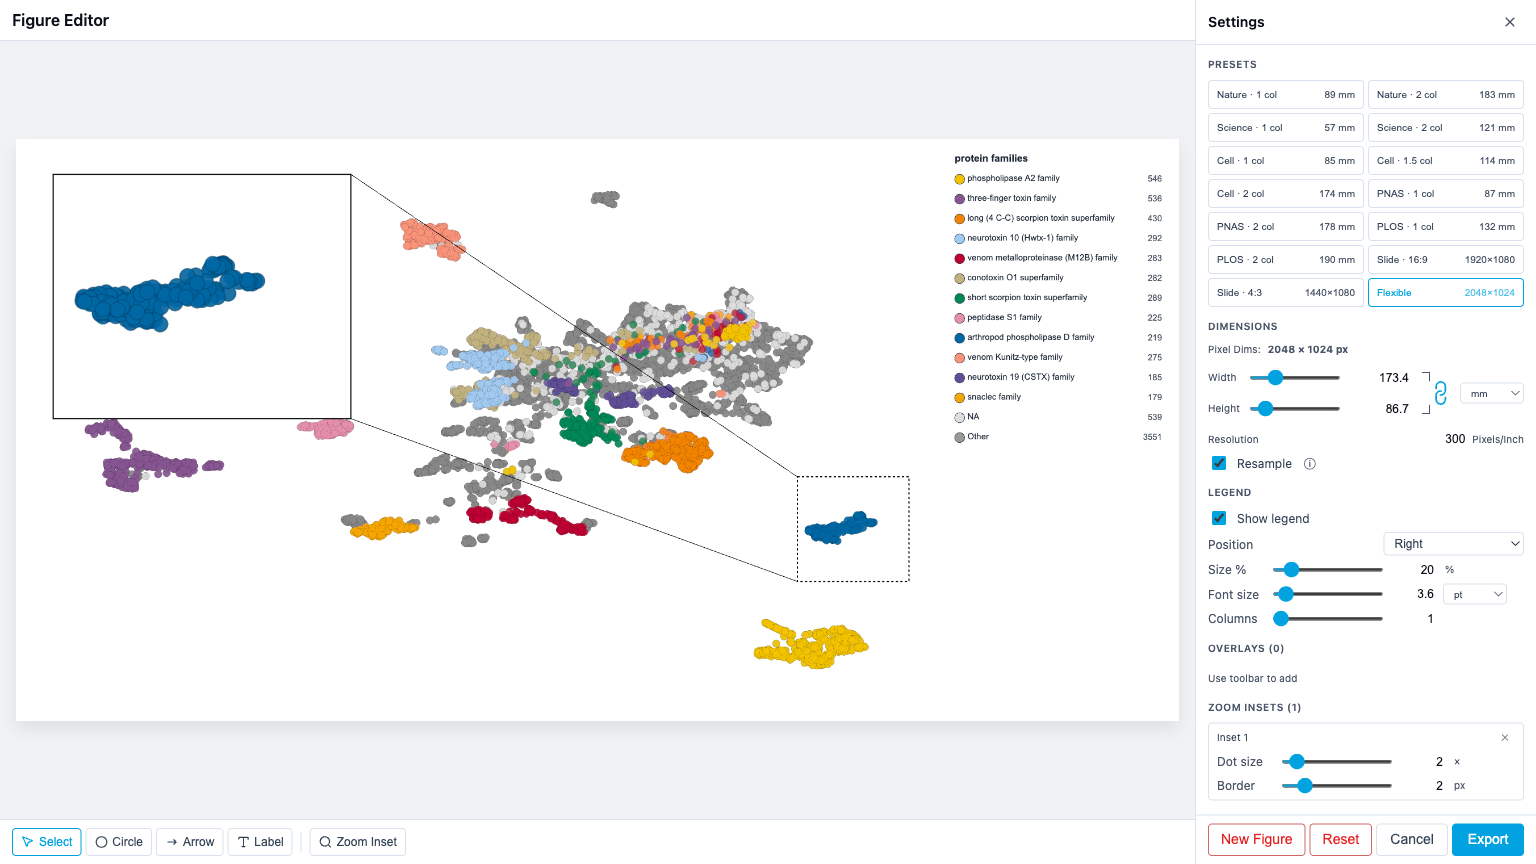
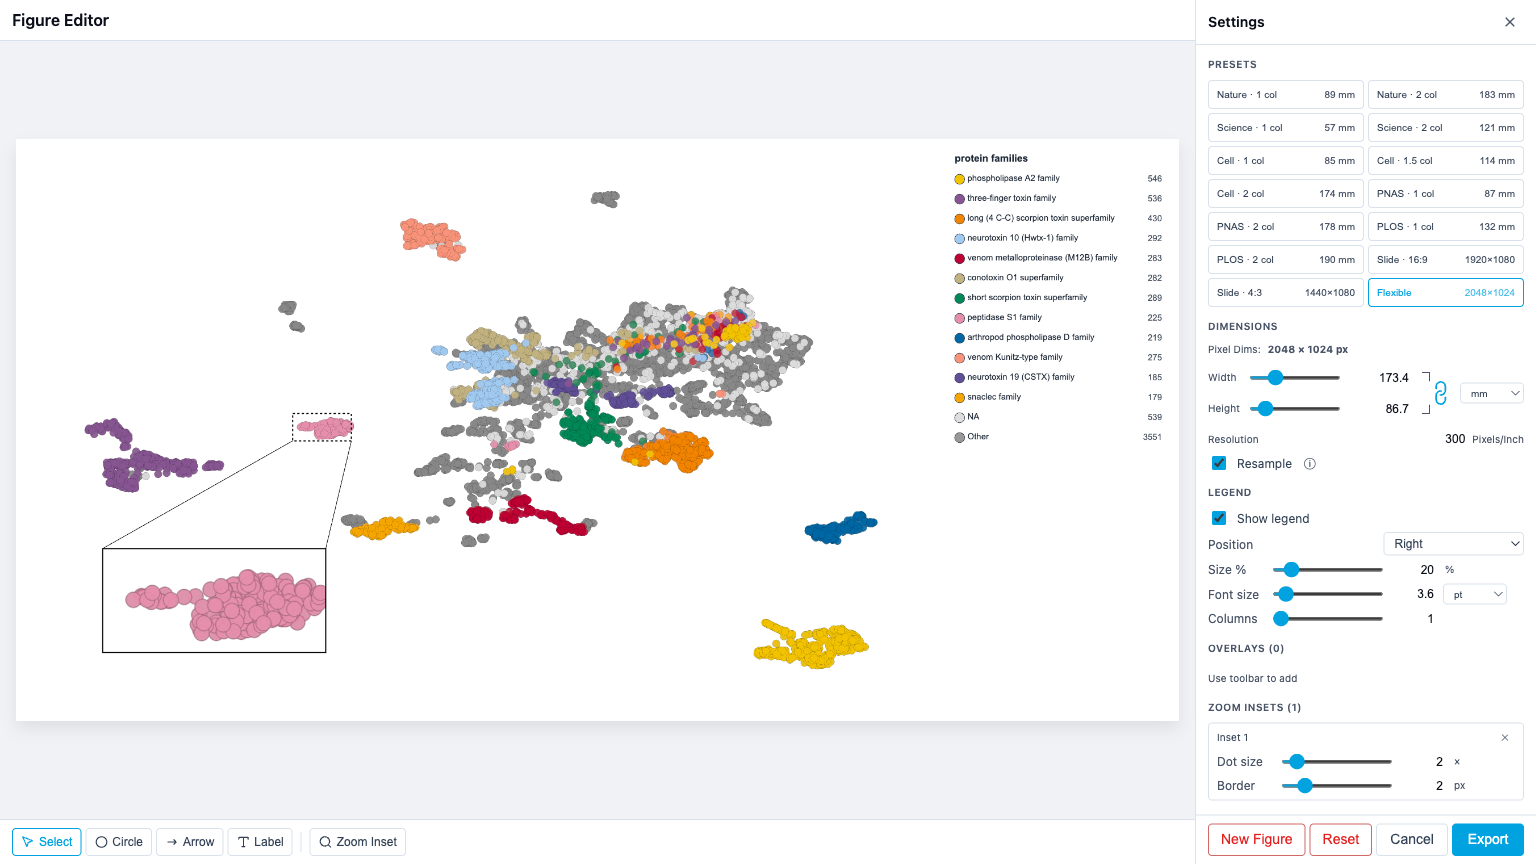
docs(explore): use exact editor-session coords for overlay/inset captures
Replaces the rounded "anchored" placeholders with the verbatim normalised
coordinates from a hand-tuned editor session:

- Overlays: rotated ellipse + rotated "PLD" label on the right-side PLD
  cluster, plus an arrow + "Kunitz" label pointing into the upper-left
  Kunitz cluster (4 overlays total, 24px font).
- Zoom inset: source rect bounds a small mid-plot cluster; target rect
  drops the magnified view into the lower-left whitespace.

diff --git a/scripts/docs-screenshots/capture-static.spec.ts b/scripts/docs-screenshots/capture-static.spec.ts
@@ -478,36 +478,46 @@ test.describe('Control Bar Screenshots', () => {
         | null;
       if (!m) return;
       const cur = m._state as Record<string, unknown>;
-      // Anchored on a real cluster (right-lower region of the demo plot)
-      // so overlays line up with visible points instead of empty whitespace.
+      // Hand-placed coordinates from a real editor session: a circle around
+      // the PLD cluster (right) with a rotated "PLD" label, plus an arrow
+      // pointing into the Kunitz cluster (upper-left) with its label.
       m._state = {
         ...cur,
         overlays: [
           {
             type: 'circle',
-            cx: 0.8975,
-            cy: 0.6771,
-            rx: 0.0527,
-            ry: 0.09,
-            rotation: 0,
+            cx: 0.8974835927960928,
+            cy: 0.6770896911621094,
+            rx: 0.05272120639084891,
+            ry: 0.04386187901646462,
+            rotation: -0.2022103412448651,
             color: '#000000',
-            strokeWidth: 3,
-          },
-          {
-            type: 'arrow',
-            x1: 0.66,
-            y1: 0.42,
-            x2: 0.84,
-            y2: 0.6,
-            color: '#000000',
-            width: 3,
+            strokeWidth: 2,
           },
           {
             type: 'label',
-            x: 0.5,
-            y: 0.38,
-            text: 'Cluster A',
-            fontSize: 22,
+            x: 0.8792687347374848,
+            y: 0.6228675842285156,
+            text: 'PLD',
+            fontSize: 24,
+            rotation: -0.26409924802458146,
+            color: '#000000',
+          },
+          {
+            type: 'arrow',
+            x1: 0.3920487065018315,
+            y1: 0.317230224609375,
+            x2: 0.4429801968864469,
+            y2: 0.17986679077148438,
+            color: '#000000',
+            width: 2,
+          },
+          {
+            type: 'label',
+            x: 0.3910065628815629,
+            y: 0.33621978759765625,
+            text: 'Kunitz',
+            fontSize: 24,
             rotation: 0,
             color: '#000000',
           },
@@ -537,14 +547,25 @@ test.describe('Control Bar Screenshots', () => {
         | null;
       if (!m) return;
       const cur = m._state as Record<string, unknown>;
-      // Source rect tightly bounds the same cluster the overlays target
-      // (right-lower region); target rect lands in upper-left whitespace.
+      // Hand-placed source/target from a real editor session: source rect
+      // tightly bounds a small mid-plot cluster; target rect drops the
+      // magnified view into the lower-left whitespace.
       m._state = {
         ...cur,
         insets: [
           {
-            sourceRect: { x: 0.84, y: 0.58, w: 0.12, h: 0.18 },
-            targetRect: { x: 0.04, y: 0.06, w: 0.32, h: 0.42 },
+            sourceRect: {
+              x: 0.2973972641941392,
+              y: 0.4712409973144531,
+              w: 0.06317011981074483,
+              h: 0.047016143798828125,
+            },
+            targetRect: {
+              x: 0.09312042124542119,
+              y: 0.7035446166992188,
+              w: 0.23986473595848598,
+              h: 0.1785260967033006,
+            },
             border: 2,
             connector: 'lines',
             pointSizeScale: 2,
